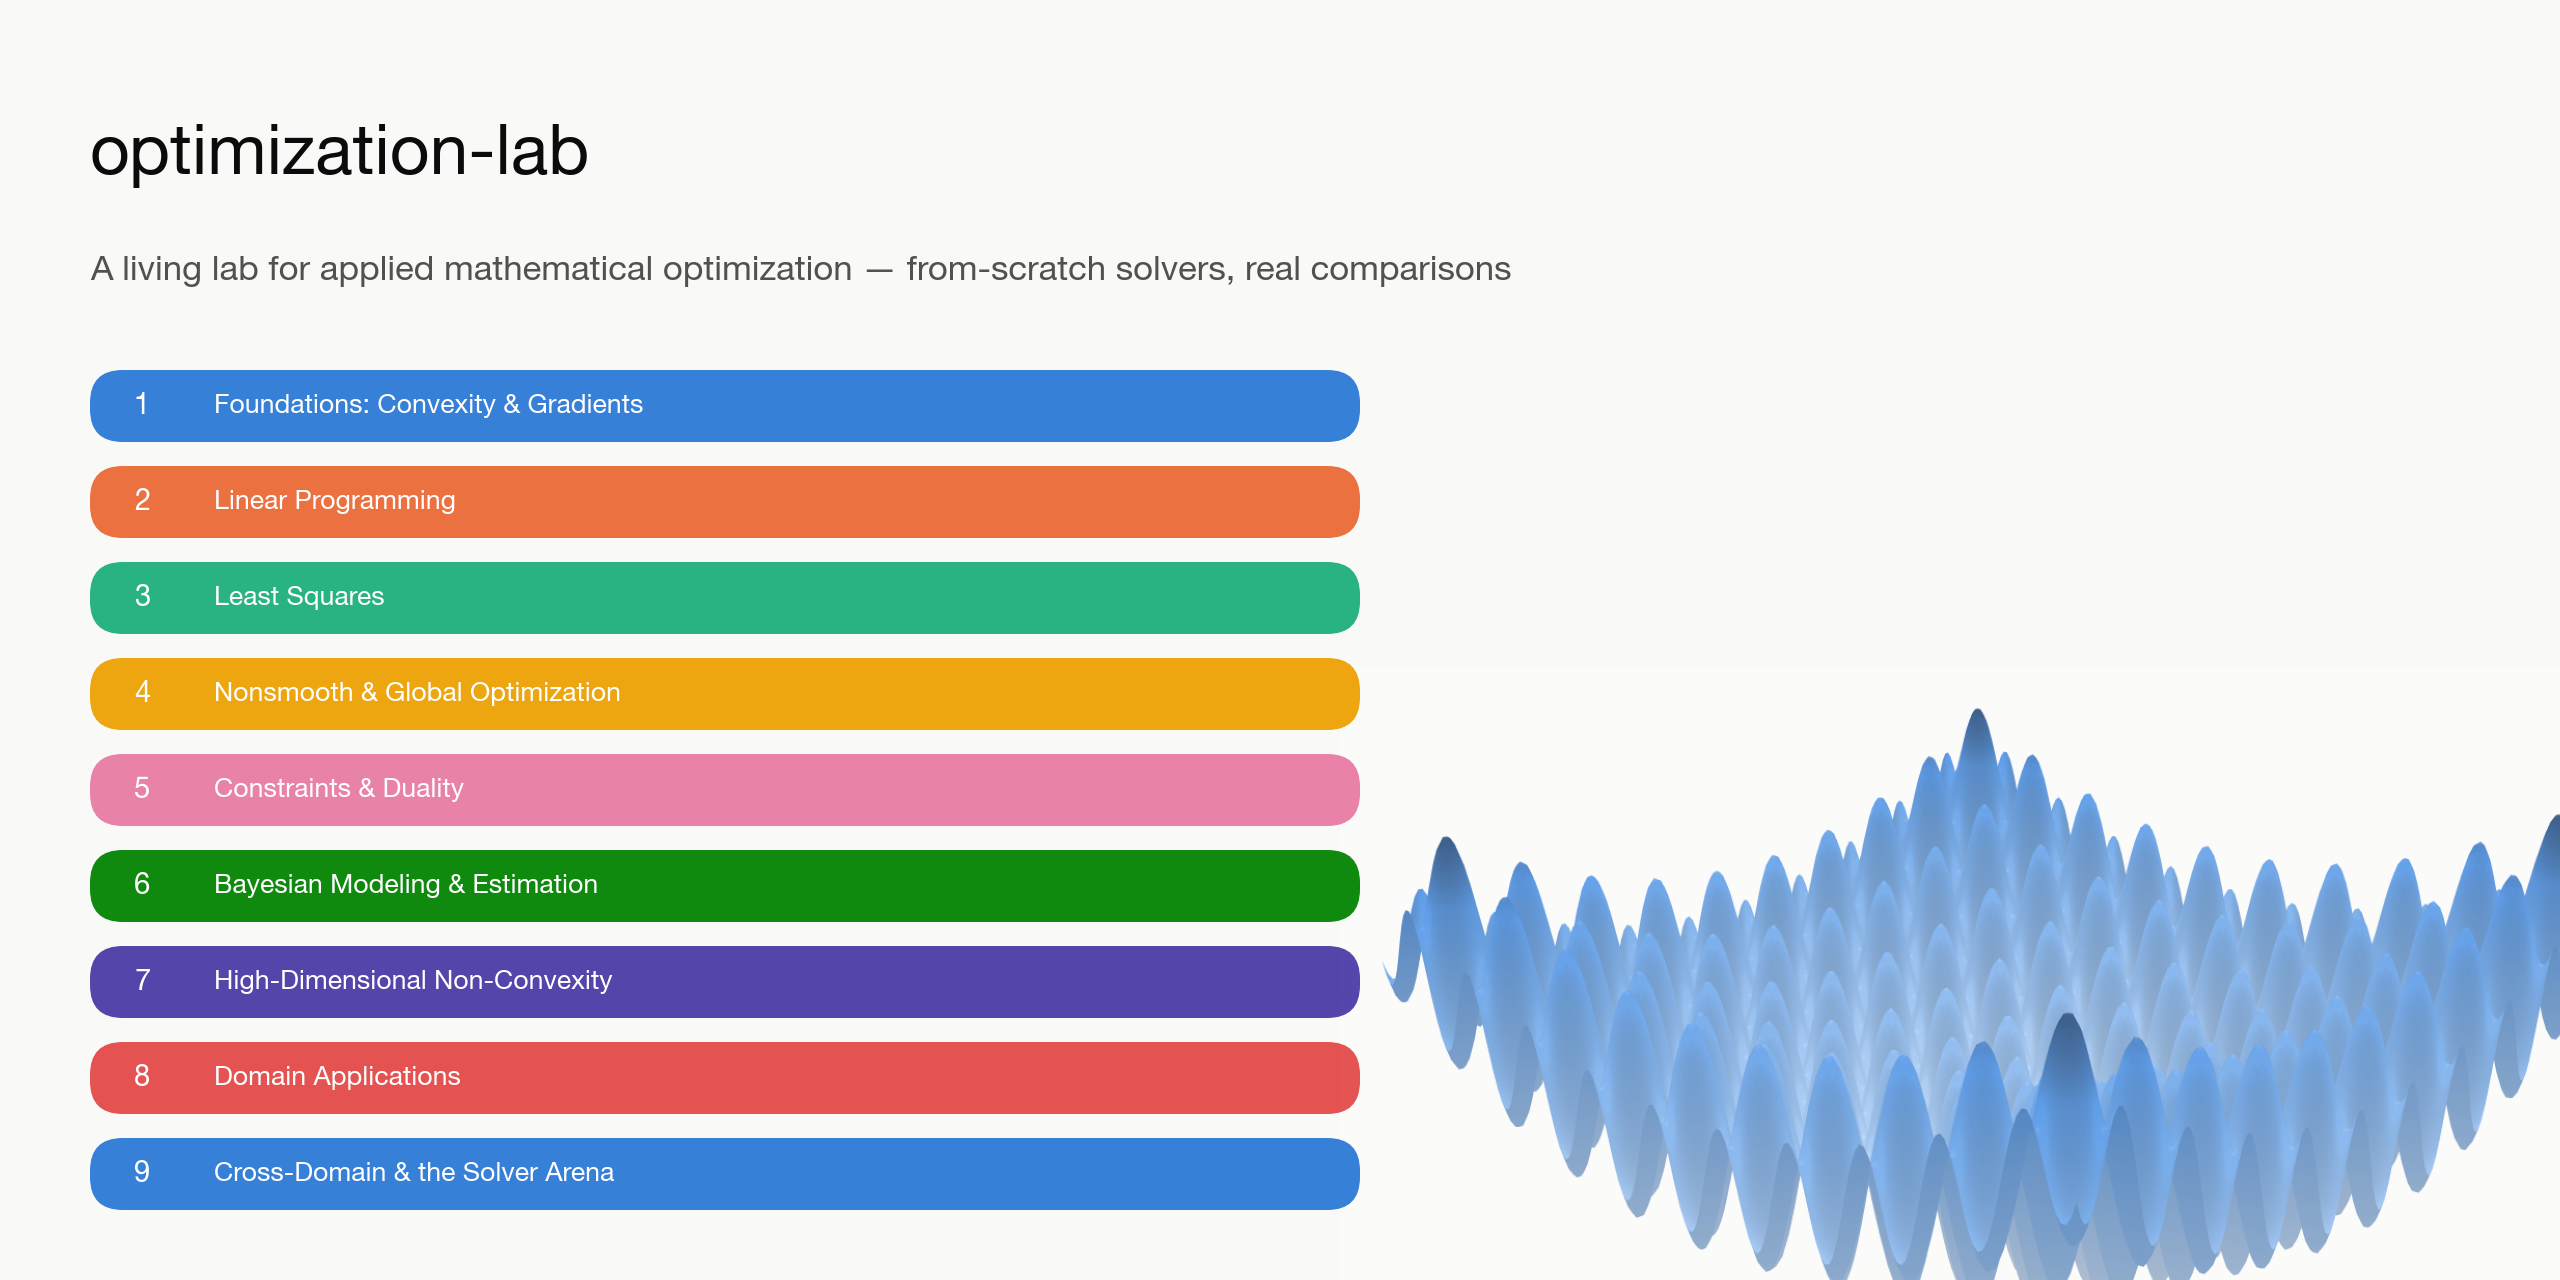
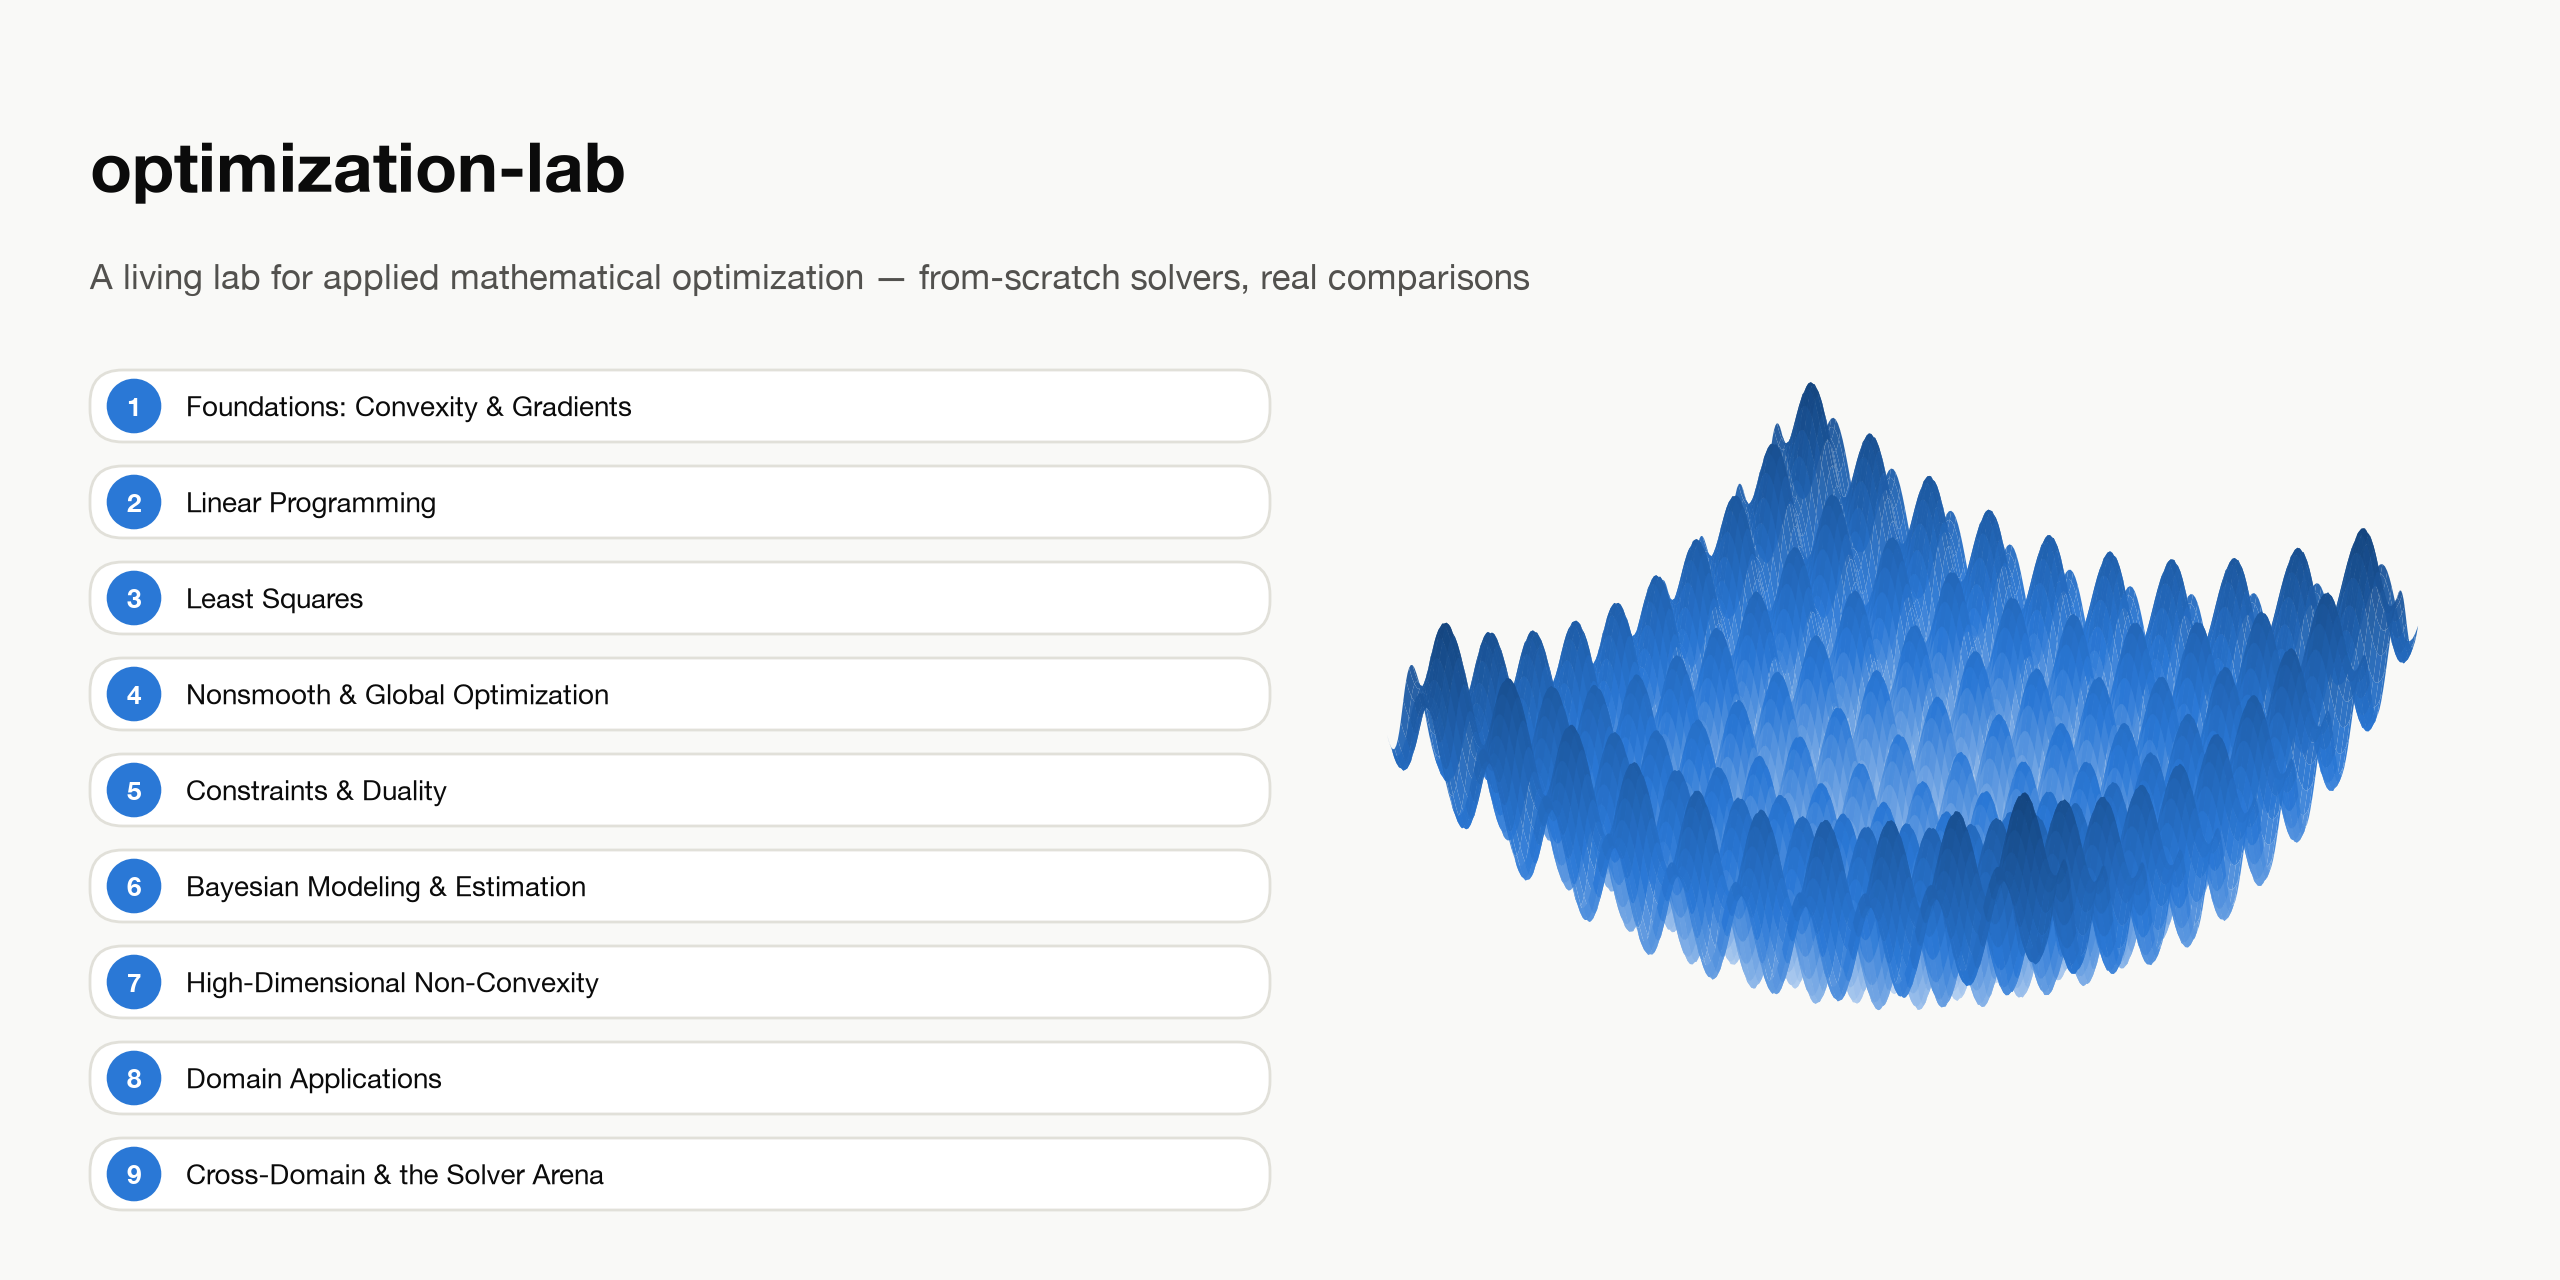
Social preview: native Rastrigin surface, single-accent chapter list
The pasted landscape image was clipped at the canvas edge and sat on a
mismatched background box; the surface is now computed and drawn in
matplotlib, fully on canvas. Chapters use one accent color: they are a
sequence, and nine items cycled the 8-color palette.

diff --git a/scripts/social_preview.py b/scripts/social_preview.py
@@ -1,10 +1,10 @@
 """Widescreen banner for the README hero image / GitHub social preview.
 
 A vertical roadmap of the docs book's 9 chapters (docs/_quarto.yml's own
-chapter order and titles), colored with optimlab.viz.theme's validated
-categorical palette, with the existing Rastrigin-landscape hero render
-(docs/images/rastrigin-landscape-hero.png) faded in on the right — reusing
-this repo's own art and color system rather than inventing a new one.
+chapter order and titles) beside a Rastrigin landscape computed and drawn
+here (the same function as docs/images/rastrigin-landscape-hero.png), in
+optimlab.viz.theme's colors. Chapters share one accent color: they are a
+sequence, not categories, and nine items would cycle an 8-color palette.
 
 CHAPTERS is hand-copied from docs/_quarto.yml / README.md's chapter list
 and CATEGORICAL_LIGHT / CHART_CHROME from src/optimlab/viz/theme.py, since
@@ -15,6 +15,8 @@ plotly, ...) for what is just a static label list. Keep in sync by hand.
 from pathlib import Path
 
 import matplotlib.pyplot as plt
+import numpy as np
+from matplotlib.colors import LinearSegmentedColormap
 from matplotlib.patches import FancyBboxPatch
 
 # From src/optimlab/viz/theme.py — CHART_CHROME["light"] / CATEGORICAL_LIGHT.
@@ -22,6 +24,7 @@ PAGE = "#f9f9f7"
 INK = "#0b0b0b"
 MUTED = "#52514e"
 GRIDLINE = "#e1e0d9"
+ACCENT = "#2a78d6"  # CATEGORICAL_LIGHT[0]
 CATEGORICAL = [
     "#2a78d6", "#eb6834", "#1baf7a", "#eda100",
     "#e87ba4", "#008300", "#4a3aa7", "#e34948",
@@ -66,14 +69,19 @@ def main() -> None:
     ax.set_axis_off()
     fig.subplots_adjust(left=0, right=1, top=1, bottom=0)
 
-    # Faded Rastrigin-landscape hero render, bottom-right, behind everything.
-    hero_path = Path(__file__).resolve().parents[1] / "docs" / "images" / "rastrigin-landscape-hero.png"
-    if hero_path.exists():
-        img = plt.imread(str(hero_path))
-        src_w, src_h = 6.6, 6.6 * img.shape[0] / img.shape[1]
-        x0 = 12.8 - src_w + 0.5
-        y0 = 6.4 - src_h + 0.35
-        ax.imshow(img, extent=(x0, x0 + src_w, y0 + src_h, y0), alpha=0.8, zorder=1)
+    # Rastrigin landscape, computed here and drawn as a 3D surface on the right,
+    # fully inside the canvas on a transparent background.
+    ax3 = fig.add_axes([0.46, -0.08, 0.56, 0.95], projection="3d")
+    ax3.set_facecolor((0, 0, 0, 0))
+    g = np.linspace(-5.12, 5.12, 260)
+    X, Y = np.meshgrid(g, g)
+    Z = 20 + X**2 - 10 * np.cos(2 * np.pi * X) + Y**2 - 10 * np.cos(2 * np.pi * Y)
+    cmap = LinearSegmentedColormap.from_list("blues", ["#dbe8f8", ACCENT, "#14457f"])
+    ax3.plot_surface(X, Y, Z, cmap=cmap, rstride=2, cstride=2, linewidth=0,
+                     antialiased=True, alpha=0.95)
+    ax3.view_init(elev=28, azim=-58)
+    ax3.set_box_aspect((1, 1, 0.5), zoom=1.02)
+    ax3.set_axis_off()
 
     # Header.
     ax.text(0.45, 0.62, "optimization-lab", fontsize=25, fontweight="bold",
@@ -86,16 +94,20 @@ def main() -> None:
     top, bottom, gap = 1.85, 6.05, 0.12
     n = len(CHAPTERS)
     chip_h = (bottom - top - (n - 1) * gap) / n
-    chip_x, chip_w = 0.45, 6.35
+    chip_x, chip_w = 0.45, 5.9
     y = top
     for num, label in CHAPTERS:
-        color = CATEGORICAL[(num - 1) % len(CATEGORICAL)]
-        rounded_rect(ax, chip_x, y, chip_w, chip_h, color,
-                     rounding=chip_h / 2.2, alpha=0.94, zorder=3)
-        ax.text(chip_x + 0.22, y + chip_h / 2, f"{num}", fontsize=10.5,
-                 fontweight="800", color="white", ha="left", va="center", zorder=4)
-        ax.text(chip_x + 0.62, y + chip_h / 2, label, fontsize=9.6,
-                 fontweight="600", color="white", ha="left", va="center", zorder=4)
+        rounded_rect(ax, chip_x, y, chip_w, chip_h, "#ffffff", rounding=chip_h / 2.2, zorder=3)
+        ax.add_patch(FancyBboxPatch((chip_x, y), chip_w, chip_h,
+                                    boxstyle=f"round,pad=0,rounding_size={chip_h / 2.2}",
+                                    linewidth=1.0, edgecolor=GRIDLINE, facecolor="none",
+                                    zorder=3, mutation_aspect=1))
+        ax.add_patch(plt.Circle((chip_x + chip_h / 2 + 0.04, y + chip_h / 2), chip_h * 0.36,
+                                color=ACCENT, zorder=4))
+        ax.text(chip_x + chip_h / 2 + 0.04, y + chip_h / 2, f"{num}", fontsize=9.5,
+                 fontweight="bold", color="white", ha="center", va="center", zorder=5)
+        ax.text(chip_x + chip_h + 0.12, y + chip_h / 2, label, fontsize=10,
+                 color=INK, ha="left", va="center", zorder=5)
         y += chip_h + gap
 
     out = Path(__file__).resolve().parents[1] / "docs" / "images" / "social-preview.png"
